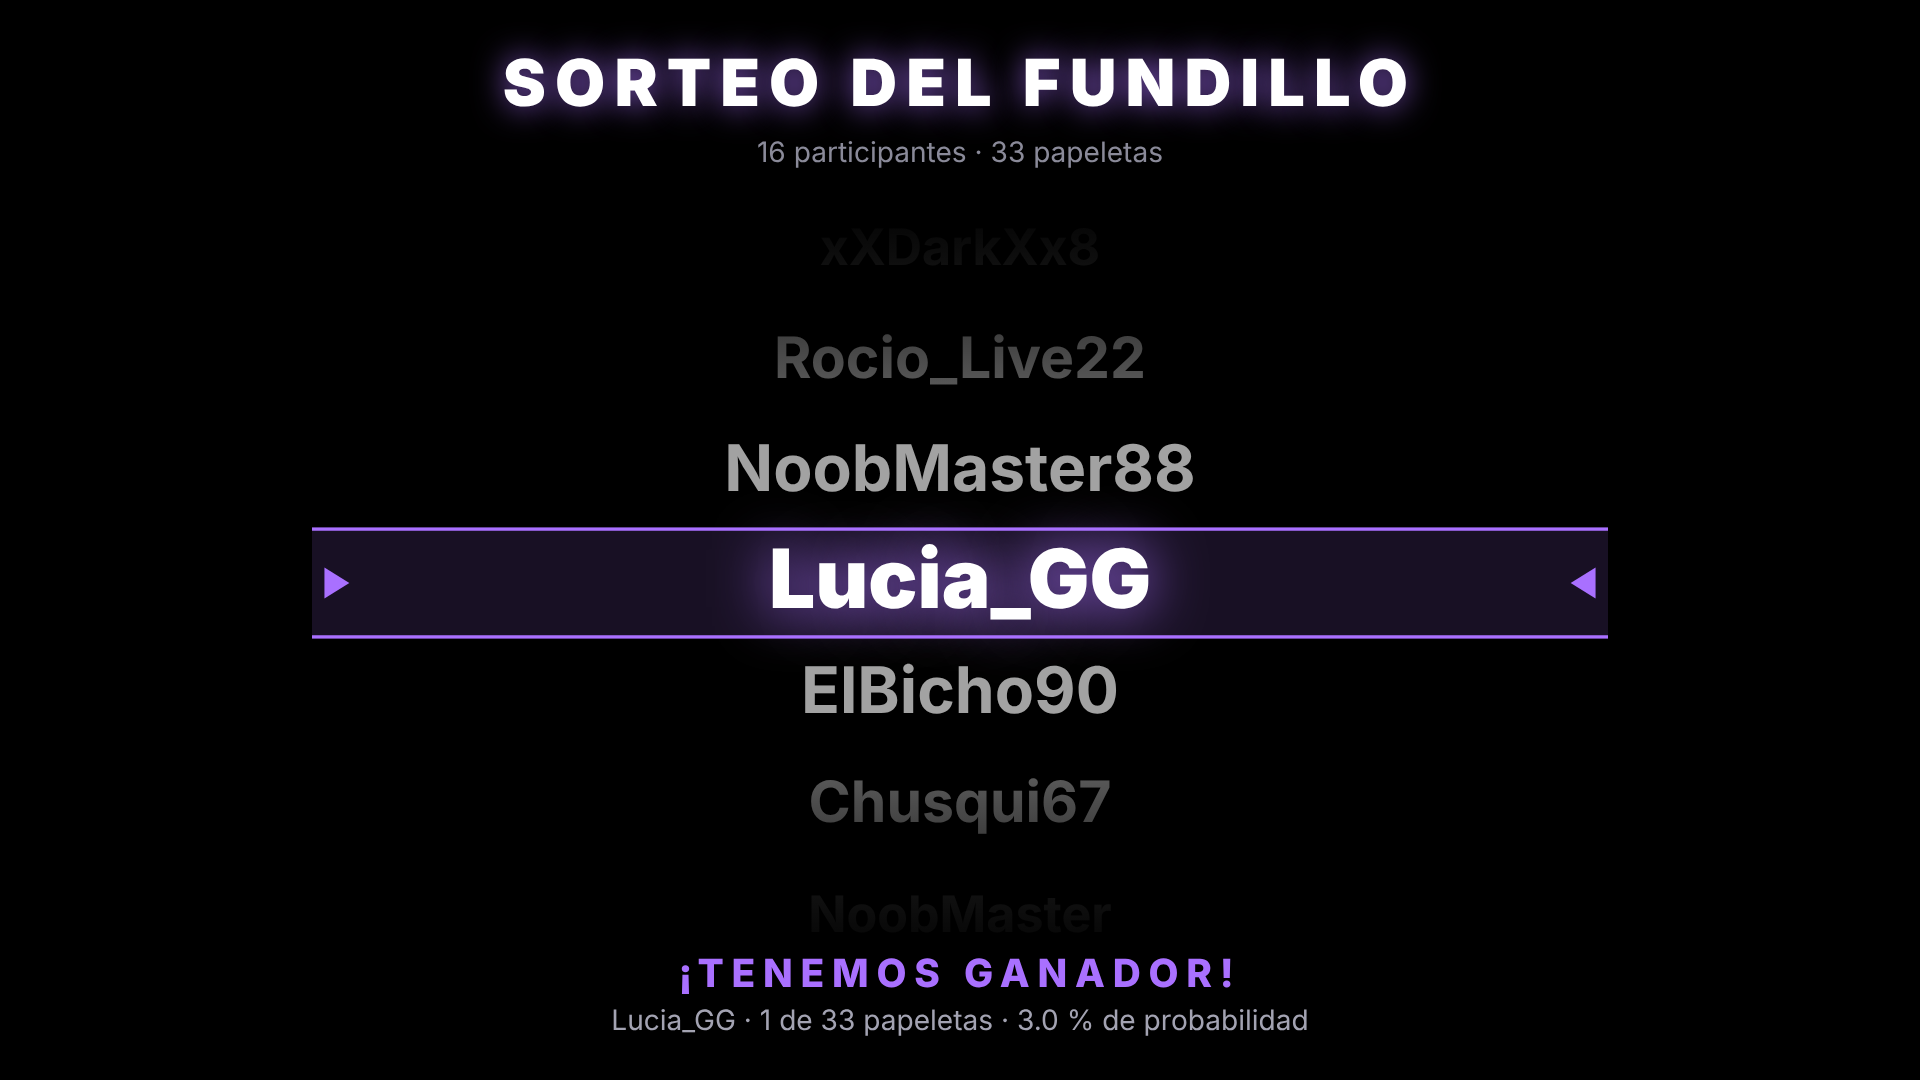
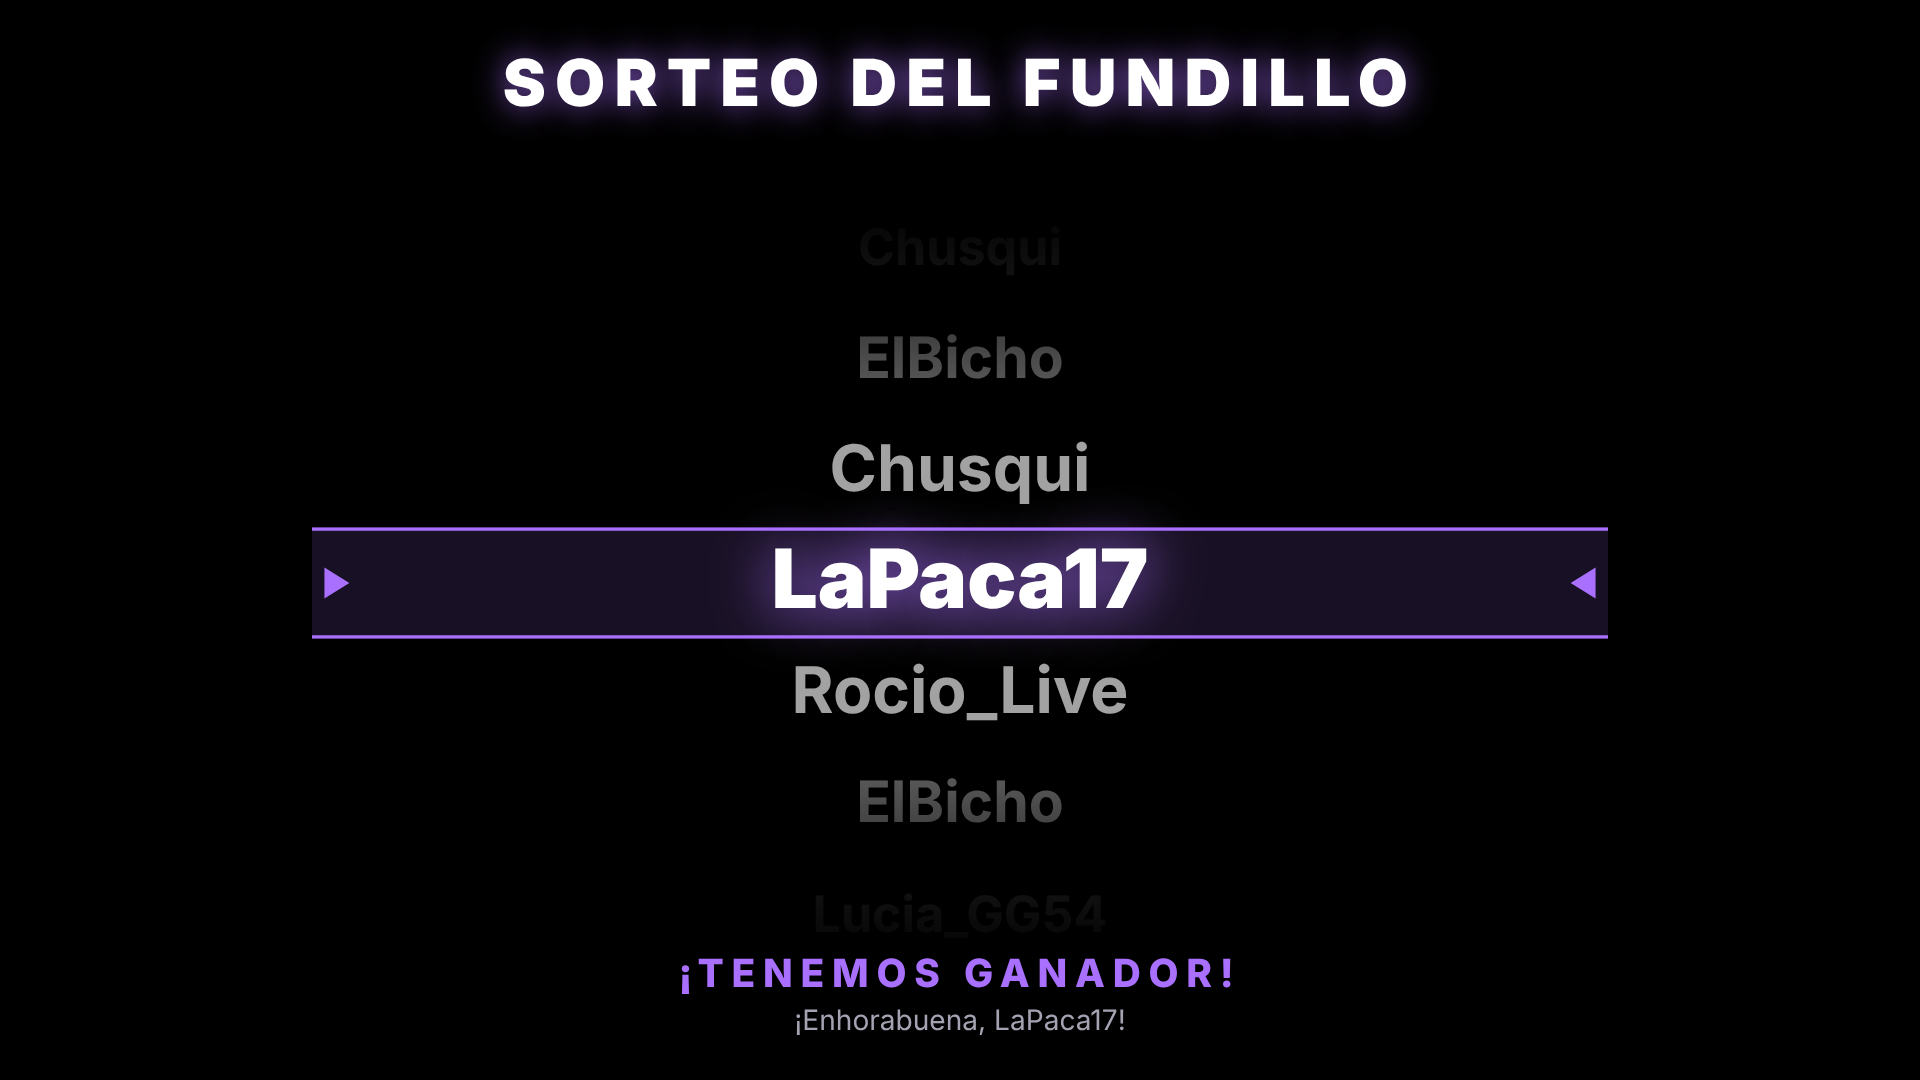
Oculta en la escena de OBS el número de participantes y las papeletas
- Quita el contador de participantes y papeletas bajo el título.
- El cartel del ganador ya no muestra papeletas ni probabilidad.
- Elimina la opción ?ranking de la escena.
- El panel sigue mostrando todos los datos al streamer.

Claude-Session: https://claude.ai/code/session_01RMqmjQ5F9H6emFyKHDTTkK

diff --git a/sorteo/escena.html b/sorteo/escena.html
@@ -7,7 +7,7 @@
 <!--
   Escena para OBS (fuente de navegador 1920×1080). Transparente; al sortear desde
   el panel aparece un fondo negro con los nombres cayendo de arriba abajo.
-  Opciones: ?ranking=5  ?anuncio=1  ?siempre=1  ?segundos=15  ?sonido=0  ?fondo=verde
+  Opciones: ?anuncio=1  ?siempre=1  ?segundos=15  ?sonido=0  ?fondo=verde
 -->
 <style>
   html, body { margin: 0; height: 100%; overflow: hidden; background: transparent; font-family: system-ui, "Segoe UI", sans-serif; color: #f2f2f5; }
@@ -16,32 +16,24 @@
   #escena.visible { opacity: 1; }
   #titulo { position: absolute; left: 0; right: 0; top: 4vh; text-align: center; font-size: 6vh; font-weight: 900; letter-spacing: .14em; color: #fff;
     text-shadow: 0 0 3vh rgba(169, 112, 255, .8); }
-  #subtitulo { position: absolute; left: 0; right: 0; top: 12.5vh; text-align: center; font-size: 2.6vh; color: #8a8a99; }
   #lienzo { position: absolute; left: 50%; top: 18vh; width: 120vh; height: 72vh; transform: translateX(-50%); }
   #cartel { position: absolute; left: 0; right: 0; bottom: 4vh; text-align: center; opacity: 0; transform: translateY(3vh); transition: opacity .5s, transform .5s; }
   #cartel.visible { opacity: 1; transform: none; }
   #cartel .sup { font-size: 3.6vh; letter-spacing: .2em; text-transform: uppercase; color: #a970ff; font-weight: 800; }
   #cartel .inf { font-size: 2.6vh; color: #a3a3b2; margin-top: .6vh; }
   #confeti { position: absolute; inset: 0; width: 100%; height: 100%; pointer-events: none; }
-  #ranking { position: absolute; right: 3vh; top: 3vh; min-width: 34vh; padding: 1.6vh 2vh; border-radius: 1.4vh; display: none;
-    background: rgba(0, 0, 0, .85); border: .25vh solid #a970ff; font-size: 2.4vh; }
-  #ranking h3 { margin: 0 0 1vh; font-size: 2vh; color: #a970ff; text-transform: uppercase; letter-spacing: .1em; }
-  #ranking div { display: flex; justify-content: space-between; gap: 2vh; padding: .3vh 0; }
-  #ranking b { color: #fff; }
   #anuncio { position: absolute; left: 50%; bottom: 3vh; transform: translateX(-50%); display: none; white-space: nowrap;
     padding: 1.2vh 3vh; border-radius: 999px; background: rgba(0, 0, 0, .88); border: .3vh solid #a970ff; font-size: 3vh; }
   #anuncio b { color: #c4a0ff; }
-  .durante-sorteo #ranking, .durante-sorteo #anuncio { display: none !important; }
+  .durante-sorteo #anuncio { display: none !important; }
 </style>
 </head>
 <body>
 <div id="escena">
   <div id="titulo">SORTEO DEL FUNDILLO</div>
-  <div id="subtitulo"></div>
   <canvas id="lienzo"></canvas>
   <div id="cartel"><div class="sup">¡Tenemos ganador!</div><div class="inf" id="info"></div></div>
 </div>
-<div id="ranking"></div>
 <div id="anuncio"></div>
 <canvas id="confeti"></canvas>
 
@@ -52,7 +44,6 @@
 'use strict';
 const $ = (id) => document.getElementById(id);
 const q = new URLSearchParams(location.search);
-const topN = parseInt(q.get('ranking'), 10) || 0;
 const siempre = q.get('siempre') === '1';
 const anuncio = q.get('anuncio') === '1';
 const segundos = parseInt(q.get('segundos'), 10) || 15;
@@ -66,25 +57,14 @@ if (siempre) $('escena').classList.add('visible');
 function pintarEstado(s) {
   if (girando) return;
   rodillo.mostrar(s.participantes.map((p) => p.nombre));
-  $('subtitulo').textContent = `${s.participantes.length} participantes · ${s.totalPapeletas} papeletas`;
 
-  if (topN) {
-    const top = s.participantes.slice(0, topN);
-    $('ranking').style.display = top.length ? 'block' : 'none';
-    $('ranking').replaceChildren(Object.assign(document.createElement('h3'), { textContent: 'Papeletas' }));
-    for (const p of top) {
-      const f = document.createElement('div');
-      f.append(Object.assign(document.createElement('span'), { textContent: p.nombre }), Object.assign(document.createElement('b'), { textContent: p.papeletas }));
-      $('ranking').append(f);
-    }
-  }
   if (anuncio) {
     const a = $('anuncio');
     a.style.display = s.abierto ? 'block' : 'none';
     const palabra = (s.palabraClave || '').trim();
     a.replaceChildren(...(palabra
-      ? ['Escribe ', Object.assign(document.createElement('b'), { textContent: palabra }), ' para entrar al sorteo · bits y subs dan papeletas extra']
-      : ['Bits, subs y regalos te dan papeletas para el sorteo']));
+      ? ['Escribe ', Object.assign(document.createElement('b'), { textContent: palabra }), ' para entrar al sorteo · bits y subs te dan más opciones de ganar']
+      : ['Bits, subs y regalos te meten en el sorteo']));
   }
 }
 
@@ -94,10 +74,9 @@ async function tirar({ tirada, inicio }) {
   document.body.classList.add('durante-sorteo');
   $('cartel').classList.remove('visible');
   $('escena').classList.add('visible');
-  $('subtitulo').textContent = `${tirada.ganador.participantes} participantes · ${tirada.ganador.totalPapeletas} papeletas`;
   await rodillo.girar(tirada, inicio);
   const g = tirada.ganador;
-  $('info').textContent = `${g.nombre} · ${g.papeletas} de ${g.totalPapeletas} papeletas · ${(g.probabilidad * 100).toFixed(1)} % de probabilidad`;
+  $('info').textContent = `¡Enhorabuena, ${g.nombre}!`;
   $('cartel').classList.add('visible');
   Animacion.confeti($('confeti'), 6000);
   ocultar = setTimeout(() => {

diff --git a/sorteo/index.html b/sorteo/index.html
@@ -162,7 +162,7 @@
           <p>La escena es transparente y solo aparece cuando sorteas (fondo negro con los nombres cayendo). Necesita estar <b>en el mismo navegador</b> que este panel para recibir la orden de girar. Dos formas:</p>
           <p><b>A · Todo dentro de OBS (recomendado).</b> En OBS: <i>Ver → Paneles → Paneles de navegador personalizados</i> y añade este panel con la dirección <code id="urlPanel"></code>. Después añade una <i>Fuente de navegador</i> (1920×1080) con <code id="urlEscena"></code> y marca <i>Controlar audio vía OBS</i>.</p>
           <p><b>B · Captura de ventana.</b> Pulsa <b>🎬 Abrir escena</b>, y en OBS añade una <i>Captura de ventana</i> de esa ventana con un filtro de <i>Clave cromática</i> (verde). Para fondo verde usa <code>escena.html?fondo=verde</code>.</p>
-          <p>Opciones de la escena (se añaden a la dirección): <code>?ranking=5</code> top de papeletas · <code>?anuncio=1</code> barra "escribe !sorteo para participar" · <code>?siempre=1</code> animación siempre visible · <code>?segundos=20</code> tiempo del ganador en pantalla · <code>?sonido=0</code> sin sonido. Se combinan con <code>&amp;</code>.</p>
+          <p>Opciones de la escena (se añaden a la dirección): <code>?anuncio=1</code> barra "escribe !sorteo para participar" · <code>?siempre=1</code> animación siempre visible · <code>?segundos=20</code> tiempo del ganador en pantalla · <code>?sonido=0</code> sin sonido. Se combinan con <code>&amp;</code>.</p>
         </div>
       </details>
     </div>

diff --git a/sorteo/README.md b/sorteo/README.md
@@ -68,14 +68,15 @@ Opciones de la escena, añadiéndolas a la dirección (y combinándolas con `&`)
 
 | Opción | Qué hace |
 |---|---|
-| `?ranking=5` | Top 5 de papeletas en una esquina |
 | `?anuncio=1` | Barra "Escribe !sorteo para participar" mientras el sorteo está abierto |
 | `?siempre=1` | El fondo negro con los nombres se ve siempre, no solo al sortear |
 | `?segundos=20` | Segundos que se queda el ganador en pantalla (15 por defecto) |
 | `?sonido=0` | Sin sonido |
 | `?fondo=verde` | Fondo verde para clave cromática |
 
-Ejemplo: `escena.html?ranking=5&anuncio=1`
+Ejemplo: `escena.html?anuncio=1&segundos=20`
+
+En la escena no se muestra cuánta gente participa ni las papeletas de nadie; eso solo lo ves tú en el panel.
 
 ## Publicarlo con una dirección web (opcional)
 
